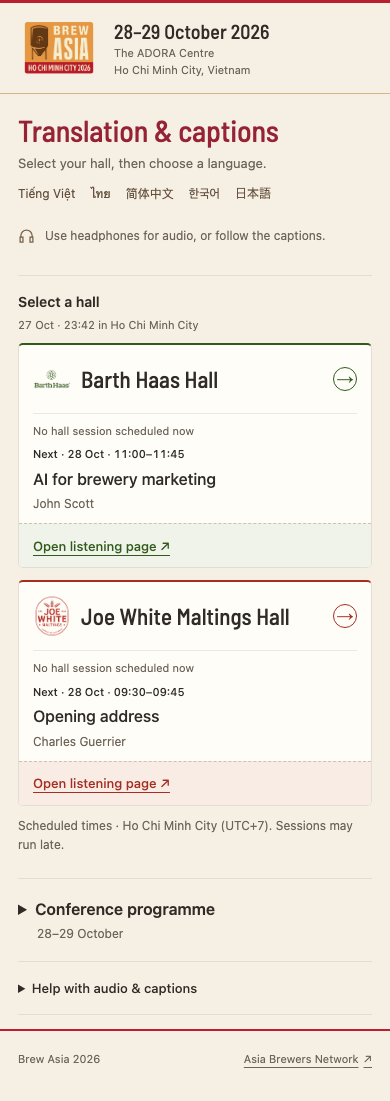
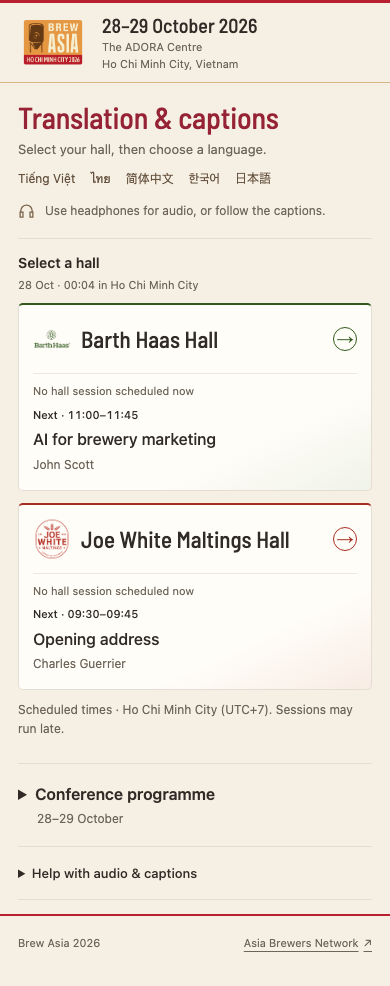
Focus the attendee flow on hall selection and captions

diff --git a/public/app.js b/public/app.js
@@ -2,7 +2,7 @@ import { startProgramme, setProgrammeHall } from './schedule-view.js';
 import { LANGUAGES, normalizeConfig, initialLanguage, embedSource } from './config-core.js';
 
 const $ = id => document.getElementById(id);
-let config, selected, waitTimer;
+let config, selected;
 const query = new URLSearchParams(location.search);
 const preferred = query.get('lang');
 const language = $('language');
@@ -28,19 +28,13 @@ function updateQuickStart() {
 updateQuickStart();
 
 function disconnect(message = '') {
-  clearTimeout(waitTimer);
   // Remove the browsing context before making any new one; never hide old frames.
   $('frame-container').replaceChildren();
   $('leave').hidden = true;
-  $('frame-help').hidden = true;
-  $('join').textContent = 'Start listening ↗';
+  document.body.classList.remove('is-listening');
+  $('audio-hint').hidden = true;
+  $('session-help').open = false;
   $('session-message').textContent = message;
-}
-
-function directLink(anchor, hall) {
-  anchor.href = hall.attendeeUrl;
-  // Same-tab navigation avoids leaving an embedded session playing behind a new tab.
-  anchor.addEventListener('click', () => disconnect('Interpretation closed here.'));
 }
 
 function selectHall(hall) {
@@ -53,17 +47,28 @@ function selectHall(hall) {
     button.querySelector('.indicator').textContent = active ? '✓' : '→';
   }
   $('session').hidden = false;
-  $('selected-hall').textContent = hall.name;
+  document.body.classList.add('has-hall');
+  document.querySelector('.intro').hidden = true;
+  document.querySelector('.audio-note').hidden = true;
+  document.querySelector('.chooser').hidden = true;
+  $('general-help').hidden = true;
+  $('programme').open = false;
+  $('session-programme').open = false;
+  $('session-title').textContent = hall.name;
   setProgrammeHall(hall.id);
   const canEmbed = config.mode === 'embed' && !!hall.embedUrl;
   $('embed-controls').hidden = !canEmbed;
   $('session-fallback').hidden = !hall.attendeeUrl;
   $('session-fallback').href = hall.attendeeUrl || '#';
-  $('session-fallback').setAttribute('aria-label', `Open listening page for ${hall.name}`);
+  $('session-fallback').setAttribute('aria-label', `Try the direct connection for ${hall.name}`);
+  $('direct-start').href = hall.attendeeUrl || '#';
+  $('direct-start').hidden = canEmbed || !hall.attendeeUrl;
+  $('reload').hidden = !canEmbed;
+  $('session-help').hidden = !hall.attendeeUrl;
   $('session-message').textContent = !hall.attendeeUrl
     ? 'This hall’s link is not available yet. Use the original interpretation QR code or ask the event team.'
-    : canEmbed ? 'Ready when you are. Tap Start listening, then enable audio.'
-      : 'Open the listening page to choose your language and listen.';
+    : canEmbed ? ''
+      : 'Choose your language and enable audio on the next page.';
 }
 
 function join() {
@@ -76,20 +81,18 @@ function join() {
   // Delegates playback permission, but does not start playback or bypass user gestures.
   frame.allow = 'autoplay';
   frame.src = embedSource(selected, language.value);
-  $('session-message').textContent = 'Opening your listening panel. Tap its audio control to listen.';
-  $('frame-help').hidden = false;
+  document.body.classList.add('is-listening');
+  $('audio-hint').hidden = false;
   $('leave').hidden = false;
-  $('join').textContent = 'Reload listening panel ↻';
-  // Cross-origin load/error events cannot establish session health. Keep fallback visible.
-  waitTimer = setTimeout(() => {
-    $('session-message').textContent = 'If captions or audio have not appeared, try Open listening page below, or ask the event team for help.';
-  }, 12000);
+  // Cross-origin content cannot report caption/audio health to the portal.
+  // Do not display a timeout warning while a working session may be playing.
   frame.addEventListener('error', () => {
-    clearTimeout(waitTimer);
-    $('session-message').textContent = 'The panel could not open. Try the listening page link below.';
+    $('session-message').textContent = 'The captions panel could not open. Try the direct connection in Help.';
+    $('session-help').open = true;
   });
   $('frame-container').append(frame);
-  frame.scrollIntoView({ block: 'nearest', behavior: 'auto' });
+  $('session-title').focus({ preventScroll: true });
+  window.scrollTo({ top: 0, behavior: 'instant' });
 }
 
 function updateNetwork() {
@@ -100,17 +103,32 @@ function updateNetwork() {
 }
 
 $('join').addEventListener('click', join);
-$('leave').addEventListener('click', () => disconnect('You have left interpretation. Tap Start listening to return.'));
+$('reload').addEventListener('click', join);
+$('leave').addEventListener('click', () => {
+  disconnect();
+  $('join').focus();
+});
 language.addEventListener('change', () => {
-  disconnect('Language changed. Tap Start listening again, then enable audio.');
+  disconnect();
   updateQuickStart();
 });
 $('change-hall').addEventListener('click', () => {
-  disconnect('Choose your next hall above.');
+  disconnect();
+  selected = undefined;
+  $('session').hidden = true;
+  document.body.classList.remove('has-hall');
+  for (const selector of ['.intro', '.audio-note', '.chooser', '#general-help']) document.querySelector(selector).hidden = false;
+  document.querySelectorAll('.hall-choice').forEach(button => {
+    button.setAttribute('aria-pressed', 'false');
+    button.closest('.hall-card').classList.remove('selected');
+    button.querySelector('.indicator').textContent = '→';
+  });
   $('hall-heading').scrollIntoView({ block: 'start' });
   $('hall-heading').focus({ preventScroll: true });
 });
-$('session-fallback').addEventListener('click', () => disconnect('Interpretation closed here.'));
+for (const id of ['session-fallback', 'direct-start']) {
+  $(id).addEventListener('click', () => disconnect());
+}
 window.addEventListener('offline', updateNetwork);
 window.addEventListener('online', updateNetwork);
 window.addEventListener('pagehide', () => disconnect());
@@ -158,14 +176,7 @@ try {
     programme.dataset.scheduleHall = hall.id;
     programme.textContent = 'Checking the programme…';
     article.append(programme);
-    if (hall.attendeeUrl) {
-      const anchor = document.createElement('a');
-      anchor.className = 'fallback';
-      anchor.textContent = 'Open listening page ↗';
-      anchor.setAttribute('aria-label', `Open listening page for ${hall.name}`);
-      directLink(anchor, hall);
-      article.append(anchor);
-    } else {
+    if (!hall.attendeeUrl) {
       const text = document.createElement('p');
       text.className = 'unavailable';
       text.textContent = 'Link awaiting event team';
@@ -176,7 +187,7 @@ try {
   startProgramme(config.halls, hall => {
     selectHall(hall);
     $('session').scrollIntoView({ block: 'start' });
-    ($('embed-controls').hidden ? $('session-fallback') : $('join')).focus({ preventScroll: true });
+    ($('embed-controls').hidden ? $('direct-start') : $('join')).focus({ preventScroll: true });
   });
   const requested = config.halls.find(hall => hall.id === query.get('hall'));
   if (requested) selectHall(requested); // QR deep links select only; never auto-join.

diff --git a/public/index.html b/public/index.html
@@ -44,20 +44,28 @@
     <p id="programme-disclaimer" class="small">Scheduled times · Ho Chi Minh City (UTC+7). Sessions may run late.</p>
     </section>
     <section id="session" class="session" aria-labelledby="session-title" hidden>
-      <div class="section-heading"><h2 id="session-title" tabindex="-1">Your interpretation</h2><button id="change-hall" class="text-button" type="button">Change hall</button></div>
-      <p id="selected-hall" class="selected-hall"></p>
-      <div id="selected-programme" class="selected-programme" aria-live="polite"></div>
+      <div class="session-screen">
+      <div class="section-heading"><h1 id="session-title" tabindex="-1"></h1><button id="change-hall" class="text-button" type="button">Change hall</button></div>
       <div id="embed-controls">
-        <label for="language">Start in your language</label>
-        <div class="join-controls"><select id="language" aria-describedby="language-help"></select><button id="join" class="primary" type="button">Start listening <span aria-hidden="true">↗</span></button></div>
-        <p id="language-help" class="small">Changing this selection disconnects the current view. Tap Start listening again, then enable audio.</p>
+        <label for="language">Choose your language</label>
+        <div class="join-controls"><select id="language"></select><button id="join" class="primary" type="button">Start listening</button></div>
         <p id="native-help" class="native-help"></p>
       </div>
-      <div class="session-bar"><p id="session-message" role="status" aria-live="polite"></p><button id="leave" class="text-button" type="button" hidden>Leave interpretation</button></div>
+      <p id="session-message" class="session-message" role="status" aria-live="polite"></p>
+      <p id="audio-hint" class="small" hidden>Use headphones. Tap the audio control below to listen.</p>
       <div id="frame-container"></div>
-      <p id="frame-help" class="small" hidden>Blank panel or no sound? Try “Open listening page” below.</p>
-      <a id="session-fallback" class="fallback prominent" href="#">Open listening page <span aria-hidden="true">↗</span></a>
-      <p class="small">Opens in this tab. Choose your language and enable audio there. Use your browser’s Back button to return.</p>
+      </div>
+      <a id="direct-start" class="primary direct-start" href="#" hidden>Continue to interpretation <span aria-hidden="true">↗</span></a>
+      <details id="session-help" class="help session-help">
+        <summary>Help with audio &amp; captions</summary>
+        <div>
+          <p>Connect headphones, check your media volume and tap the audio control inside the captions panel. Choose a different language in that panel’s menu.</p>
+          <p>If the panel is blank, check your connection, then try reloading it. You may need to enable audio again after locking your phone.</p>
+          <div class="recovery-actions"><button id="reload" class="text-button" type="button">Reload captions</button><button id="leave" class="text-button" type="button" hidden>Stop listening</button><a id="session-fallback" class="fallback" href="#">Try the direct connection ↗</a></div>
+          <p class="small">The direct connection opens in this tab. If it still does not work, ask the event team or use the original hall QR code.</p>
+        </div>
+      </details>
+      <details id="session-programme" class="session-programme"><summary>In this hall · scheduled programme</summary><div id="selected-programme" aria-live="polite"></div></details>
     </section>
     <details id="programme" class="programme">
       <summary><span>Conference programme</span><span class="small">28–29 October</span></summary>
@@ -69,7 +77,7 @@
         <a class="source-link" href="https://www.brew-asia.com/conference" target="_blank" rel="noopener noreferrer">Official conference programme <span aria-hidden="true">↗</span></a>
       </div>
     </details>
-    <details class="help"><summary>Help with audio &amp; captions</summary><div><p><strong>No sound?</strong> Connect headphones, check your phone’s media volume and tap the audio control in the listening panel. Returning from a locked screen may require another tap.</p><p><strong>Blank or disconnected?</strong> Check your internet connection. Try “Open listening page” for your hall, or use the original interpretation QR code.</p><p><strong>Changing rooms?</strong> Select the other hall here. Close any separate listening tabs that are still playing.</p><p>If you still need help, ask the event team. Captions and audio depend on the hall’s interpretation feed and your internet connection.</p></div></details>
+    <details id="general-help" class="help"><summary>Help with audio &amp; captions</summary><div><p><strong>No sound?</strong> Connect headphones, check your phone’s media volume and tap the audio control in the listening panel. Returning from a locked screen may require another tap.</p><p><strong>Blank or disconnected?</strong> Check your internet connection. Select your hall and open Help for a direct connection, or use the original interpretation QR code.</p><p><strong>Changing rooms?</strong> Select the other hall here. Close any separate listening tabs that are still playing.</p><p>If you still need help, ask the event team. Captions and audio depend on the hall’s interpretation feed and your internet connection.</p></div></details>
   </main>
   <footer><span>Brew Asia 2026</span><a href="https://asiabrewersnetwork.com/" target="_blank" rel="noopener noreferrer">Asia Brewers Network <span aria-hidden="true">↗</span></a></footer>
 </body>

diff --git a/public/styles.css b/public/styles.css
@@ -161,3 +161,52 @@ footer a { display: inline-flex; align-items: center; gap: 5px; min-height: 44px
   .primary, .prominent { border: 2px solid ButtonText; }
   .event-logo, .hall-logo { mix-blend-mode: normal; }
 }
+
+/* Focused hall view: keep captions and their own controls together. */
+.hall-card { background: linear-gradient(155deg, #fffdf8 70%, var(--tint)); }
+.hall-programme { padding-bottom: 16px; }
+.intro .language-line { margin-top: 10px; }
+.audio-note { margin-top: 6px; }
+.chooser { margin-top: 10px; padding-top: 14px; }
+.has-hall .masthead { padding-top: 10px; padding-bottom: 10px; gap: 12px; }
+.has-hall .event-logo { width: 44px; }
+.has-hall .event-location { font-size: 10px; }
+.has-hall .event-location strong { font-size: 16px; }
+.has-hall .event-location span:last-child, .has-hall .brew-motif { display: none; }
+.has-hall main { padding-top: 12px; }
+.session { margin-top: 0; padding-top: 0; border-top: 0; }
+.session .section-heading { align-items: center; margin-bottom: 12px; }
+#session-title { font: 500 26px/1.15 var(--display); color: var(--ink); }
+#change-hall { font-size: 12px; padding: 8px 0 8px 8px; }
+#embed-controls { padding-top: 8px; }
+#native-help { font-size: 13px; line-height: 1.5; margin-top: 12px; }
+.session-message { font-size: 13px; line-height: 1.5; }
+.session-message:not(:empty) { margin: 12px 0; }
+#session-message:empty { display: none; }
+#audio-hint { margin: 0 0 10px; font-size: 12px; }
+.is-listening #embed-controls { display: none; }
+.wordly-frame { margin-top: 0; height: calc(100svh - 205px); min-height: 280px; max-height: 800px; border-radius: 5px; }
+.session-help { margin-top: 16px; border-top: 1px solid var(--line); }
+.recovery-actions { display: flex; flex-wrap: wrap; align-items: center; gap: 8px 16px; padding: 8px 0 !important; }
+.recovery-actions .text-button, .recovery-actions .fallback { font-size: 13px; padding: 8px 0; min-height: 44px; }
+.direct-start { text-decoration: none; margin: 16px 0; }
+.session-programme { border-bottom: 1px solid var(--line); font-size: 13px; }
+.session-programme summary { cursor: pointer; padding: 16px 0; min-height: 48px; }
+#selected-programme { padding-bottom: 16px; }
+.has-hall .programme { margin-top: 0; border-top: 0; }
+@media (max-width: 600px) {
+  .masthead { padding: 10px 18px; }
+  .event-logo { width: 70px; }
+  main { padding-top: 17px; }
+  .audio-note { margin-top: 4px; padding-bottom: 8px; }
+  .chooser { margin-top: 10px; }
+  .has-hall main { padding: 10px 14px 14px; }
+  .has-hall .masthead { padding: 8px 14px; }
+  #session-title { font-size: 24px; }
+  .session .section-heading { gap: 10px; flex-wrap: nowrap; }
+  .wordly-frame { height: calc(100svh - 190px); }
+}
+
+.is-listening .session-screen { height: calc(100svh - 84px); min-height: 420px; max-height: 1000px; display: flex; flex-direction: column; }
+.is-listening #frame-container { flex: 1; min-height: 0; }
+.is-listening .wordly-frame { height: 100%; min-height: 0; max-height: none; }

diff --git a/docs/DEVICE-ACCEPTANCE.md b/docs/DEVICE-ACCEPTANCE.md
@@ -6,16 +6,16 @@ Programme checks: compare the correct hall/session to the final organizer timeta
 
 Minimum coverage: one real iPhone with Safari and one real Android phone with Chrome, each exercised in both halls. Ideally have four phones/operators so both phone families can be checked in both halls concurrently. Record OS/browser versions, network, headphones, time, hall and outcome. Browser emulation is not a substitute.
 
-1. **QR / arrival.** Scan the single portal QR with the system camera. Confirm HTTPS, correct branding, both named halls and visible direct links. No session or sound should start merely on arrival. Check ordinary cellular access independent of production routers. Check an in-app browser if attendees are likely to use one; recommend opening Safari/Chrome if embedded browser playback fails.
+1. **QR / arrival.** Scan the single portal QR with the system camera. Confirm HTTPS, correct branding, both named halls; select a hall and check that Help exposes its direct connection. No session or sound should start merely on arrival. Check ordinary cellular access independent of production routers. Check an in-app browser if attendees are likely to use one; recommend opening Safari/Chrome if embedded browser playback fails.
 2. **Room identity and activation.** Open a test phone before the session starts, then have the operator start the normal feed. Confirm the waiting view becomes usable; document whether Start listening must be tapped again.  Coordinate short distinct spoken identifiers with each hall operator while both existing feeds run. Select the matching hall, then Start listening. Confirm captions and sound contain only that hall’s identifier. Do not infer correctness from the session ID alone.
 3. **Audio gesture.** Connect headphones, select a language, tap Start listening, then tap the audio control inside Wordly. Confirm intelligible sound. Test initial mute/unmute, device volume, a locked screen/unlock, app switch/return and headphones disconnected/reconnected. No surprise speaker playback should occur in the room. Document any additional tap needed.
 4. **All five languages.** Exercise Vietnamese, Thai, Simplified Chinese, Korean and Japanese. Check native-script rendering, captions, available TTS controls and actual spoken output. Check that the five-language menu filtering is respected. Translation quality and TTS quality remain provider-dependent; confirm the event’s practical needs.
-5. **Switch rooms.** While listening to the first hall, select the other hall. Old audio must stop immediately. Start listening in the second hall, enable its audio and confirm the second identifier. Repeat A→B→A quickly at least three times. Test Leave and Reload. The portal must never retain two frames. Close any separate Wordly tabs before judging overlapping sound.
-6. **Language changes.** Change the outer language selector while listening. The current frame should close. Tap Start listening again and enable audio; the selected language should appear. Test Wordly’s internal language control separately. Confirm the attendee can tell when reconnection is required.
-7. **Fallback.** Open each hall’s “Open listening page” link from a playing session. It should navigate in the same tab, with no old iframe audio continuing. Select a language and enable sound directly in Wordly. Use Back; confirm no stale audio automatically resumes. Repeat in `mode: "links"` if embedding is unsuitable.
+5. **Switch rooms.** While listening to the first hall, tap Change hall, then select the other hall. Old audio must stop immediately. Start listening in the second hall, enable its audio and confirm the second identifier. Repeat A→B→A quickly at least three times. Test Help → Stop listening and Reload captions. The portal must never retain two frames. Close any separate Wordly tabs before judging overlapping sound.
+6. **Language changes.** Use the language selector inside the captions panel during listening. The outer setup selector is hidden while the frame exists. Use Help → Stop listening to return to setup, select another language, then Start listening again. Reload captions uses the original setup language; verify this recovery path.
+7. **Fallback.** Open Help → Try the direct connection for each hall from a playing session. It should navigate in the same tab, with no old iframe audio continuing. Select a language and enable sound directly in Wordly. Use Back; confirm no stale audio automatically resumes. Repeat in `mode: "links"` if embedding is unsuitable.
 8. **Connection failure.** Turn off network access on the test phone (not on a production router). Check offline guidance, stopped iframe and disabled Start listening. Reconnect; Start listening must require a new tap. Separately simulate poor connectivity and a silent/unavailable session; the direct fallback must remain accessible. Reload while offline: a browser error is expected because there is no offline cache. Existing printed official QRs are the recovery path once connectivity returns.
 9. **Layout and captions.** Check a narrow phone, portrait/landscape, Safari toolbar expansion, large system text and browser zoom. Read enough captions to scroll history. Buttons and the direct fallback must remain reachable without horizontal clipping. Parent page cannot repair Wordly’s internal layout; use direct fallback if needed.
-10. **Accessibility.** With VoiceOver/TalkBack, locate the hall buttons, their selected state, language label, Start listening, named iframe, Leave and direct fallback. Test focus entry/exit through Wordly’s controls and confirm there is no trap. Keyboard-only desktop check complements this but does not replace phone screen-reader testing. Check contrast and text scaling inside the real Wordly frame.
+10. **Accessibility.** With VoiceOver/TalkBack, locate the hall buttons, their selected state, language label, Start listening, named iframe, Change hall and the recovery controls under Help. Test focus entry/exit through Wordly’s controls and confirm there is no trap. Keyboard-only desktop check complements this but does not replace phone screen-reader testing. Check contrast and text scaling inside the real Wordly frame.
 11. **Isolation / privacy.** Open a fresh tab and confirm it starts without an automatically joined room. Check switching never routes the wrong session. The wrapper does not persist a transcript or selection; provider cookies/storage are outside its control. Public attendee links/passcodes must be intended for the event audience.
 12. **Final distribution.** Scan the printed-size QR from realistic distances/lighting on both camera apps. Confirm it points to the final approved root address, not localhost, a test hostname or a preselected wrong hall. Obtain organizer sign-off before attendee distribution or any change to existing official codes.
 
@@ -33,3 +33,7 @@ Simultaneous-feed test time: __________
 Organizer sign-off and approved distribution scope: __________
 
 Fallback selected if embeds fail: existing official QR / accepted links-only portal (circle one).
+
+## Owner evidence received around midnight, 27–28 October
+
+The owner reported that the portal works and supplied iPhone screenshots showing Japanese captions in the Barth Haas frame. This confirms one real phone caption path on the earlier release. The screenshots do not establish spoken audio, all languages, Joe White, simultaneous halls, browser/OS versions or acceptance of the revised 1.4 layout. Do not mark those rows complete without the corresponding test.

diff --git a/README.md b/README.md
@@ -1,6 +1,6 @@
 # Brew Asia 2026 attendee interpretation portal
 
-Independent, mobile-first static portal for The ADORA, Ho Chi Minh City, 28–29 October 2026. Prepared on 27 October. No backend, authentication, framework, analytics, remotely loaded fonts, service worker, or runtime package dependencies. **Prepared for controlled phone testing. Attendee rollout has not been accepted on real phones in the two halls.**
+Independent, mobile-first static portal for The ADORA, Ho Chi Minh City, 28–29 October 2026. Prepared on 27 October. No backend, authentication, framework, analytics, remotely loaded fonts, service worker, or runtime package dependencies. **Prepared for controlled phone testing. The owner has shown working Japanese captions on an iPhone; full real-phone acceptance in both halls is still pending.**
 
 Live test site: https://skidbladnr.github.io/brew-asia-2026-attendee-portal/
 
@@ -17,7 +17,7 @@ The organizer-supplied pairs are in `public/config.json`:
 
 Hall spelling now follows the official conference programme, checked on 27 October 2026. Internal IDs `a` and `b` are only navigation keys; they do not assert an official Hall A/B signage mapping. Confirm physical signage and whether these interpretation sessions remain valid on both dates. No presenter links or settings are used.
 
-## Event identity and programme (v1.3)
+## Event identity and programme (v1.4)
 
 The design uses the official public Brew Asia 2026 event mark and hall logos, restrained event colors, medium-weight event headings, system body text and compact hall cards. Warm paper tones, subtle hall tints and a desktop brewing illustration retain the event identity. Promotional slogans have been removed; instructions describe what attendees need to do. Asset provenance is in `docs/BRAND-SOURCES.md`. All design assets load from the portal itself.
 
@@ -25,7 +25,7 @@ The hall cards show **Scheduled now** and **Next**, derived from `public/schedul
 
 Schedule state is recomputed every 30 seconds and on return to the page without reloading the listening iframe. Timetable edits require changing `public/schedule.json`, rebuilding and deploying through the approved process. An already-open tab must reload to fetch changed timetable data; do that between sessions because it also stops listening. A failed timetable fetch leaves interpretation controls usable. See `docs/PROGRAMME-SOURCES.md` for the hall mapping and source decisions.
 
-The outer attendee interface omits the service/vendor name. Its fallback says “Open listening page”; underlying official URLs and iframe behavior are unchanged. The provider may still show its own name inside the frame or direct page. Native-language audio-start prompts are included for all five output languages; the rest of the shell and agenda remain English.
+The outer attendee interface omits the service/vendor name. A direct-connection fallback is available inside the selected hall’s Help section. Repeated direct links have been removed from the hall cards at the owner’s request; underlying official URLs and iframe behavior are unchanged. The provider may still show its own name inside the frame or direct page. Native-language audio-start prompts are included for all five output languages; the rest of the shell and agenda remain English.
 
 ## Run and build
 
@@ -69,7 +69,9 @@ Edit `public/config.json`, then rebuild. `config.example.json` is an empty, port
 - Duplicate hall session IDs fail closed. Unknown origins, presenter paths and undocumented iframe parameters are rejected. If Wordly supplies a new URL format, verify its official documentation before adjusting the validator.
 - Direct attendee URLs are preserved. Language/display parameters are applied only to iframe URLs; attendees select their language inside Wordly when using a direct link.
 
-Only one iframe exists at a time. Selecting any hall, changing the outer language selector, leaving, going offline, or navigating away removes the old iframe. Starting/reloading requires a tap. Changing the outer language selector resets the embedded view; it does not remotely manipulate Wordly controls. Audio still requires Wordly’s own user gesture. Separate browser tabs and other devices cannot be controlled by this portal.
+Selecting a hall opens a focused setup view. Starting hides the outer language setup, leaving the hall name, Change hall, a short audio instruction and the captions frame. Use the provider’s internal language control while listening. Programme details and recovery controls sit below the frame. Help contains Reload captions, Stop listening and Try the direct connection. Reload uses the original setup language; an in-frame language change cannot be read by the wrapper.
+
+Only one iframe exists at a time. Change hall, Stop listening, going offline, or navigating away removes the old iframe. Starting/reloading requires a tap. Stop listening returns to setup, where a different starting language can be chosen. Audio still requires Wordly’s own user gesture. Separate browser tabs and other devices cannot be controlled by this portal.
 
 The page stores no selection or transcript in local storage, cookies, or a backend. Wordly operates its own cross-origin session and storage. The portal cannot inspect captions, confirm a broadcast, or guarantee provider-side session isolation. Visible messages describe browser actions, not invented live status.
 
@@ -99,7 +101,8 @@ Optional test deep links on that same root are `?hall=a&lang=vi` and `?hall=b&la
 - `docs/WORDLY.md`: documented integration contract and limitations.
 - `docs/TEST-RESULTS.md`: completed evidence and untested risks.
 - `docs/phone-preview.jpg`: first mobile viewport at 390 × 844 CSS pixels.
-- `docs/desktop-preview.jpg`: desktop design capture.
+- `docs/desktop-preview.jpg`: desktop hall chooser.
+- `docs/listening-preview.png`: active mobile layout with a visibly simulated provider response; not a live-feed capture.
 - `docs/mobile-preview.png`: captured portal landing page on preparation day.
 - `docs/schedule-preview.png`: a **simulated 28 October, 11:10** timetable view for design review; not evidence of a live broadcast.
 

diff --git a/docs/TEST-RESULTS.md b/docs/TEST-RESULTS.md
@@ -23,7 +23,7 @@ An initial run against the machine’s newer installed Chrome passed all asserti
 
 Programme tests cover Vietnam time, exact start/end boundaries, gaps, shared activities, the overnight transition, completed conference state, schedule-fetch failure, date/hall filters and keeping the same iframe during a timetable transition. A native-language instruction appears for each selected output language.
 
-The browser’s online hint cannot detect every outage. Cross-origin iframe failures may not emit useful error events; the direct fallback remains visible regardless. A fresh offline page load cannot work without internet. The portal removes its own iframe on switching but cannot silence a separate browser tab or another device.
+The browser’s online hint cannot detect every outage. Cross-origin iframe failures may not emit useful error events; the selected hall’s Help section keeps the direct fallback available. A fresh offline page load cannot work without internet. The portal removes its own iframe on switching but cannot silence a separate browser tab or another device.
 
 No presenter MacBook, cellular router, production feed, official QR code or Wordly account setting was modified. A new independent GitHub Pages deployment was created with the owner’s authorization. Research used public Wordly documentation, official event/programme/branding pages and GitHub documentation; no private event account was accessed. URLs supplied by the user were validated locally.
 
@@ -46,3 +46,14 @@ Revision 1.3: warmer event styling restored without slogans; unit tests (14) and
 - The final QR PNG and all four QR codes in the rendered A4 PDF decoded to that exact HTTPS address. The PDF was visually reviewed. Software decoding does not prove camera scanning of the printed sheet.
 - An initial local QR decode failed because the sandbox could not initialize the native image decoder; the permitted local decoder run succeeded. PDF rendering succeeded with a local font cache.
 - The site source is public. A scan found no known credential signatures or presenter passcodes in the release; event programme and attendee session URLs are intentionally public.
+
+
+## Revision 1.4 — focused listening view, 28 October
+
+The owner reported working interpretation and supplied iPhone screenshots showing Japanese captions in Barth Haas. This is real-device evidence for that caption path on the earlier release; audio, Joe White, simultaneous halls and the revised layout remain to be accepted.
+
+The hall chooser no longer repeats direct links. Selection replaces the chooser with language setup. Starting hides setup and places the frame immediately beneath the hall name and audio hint. Change hall tears down the frame and restores the chooser. Reload, stop and direct recovery are under Help; the selected programme is collapsed below the frame. The unconditional 12-second warning has been removed because elapsed time cannot indicate provider failure.
+
+Validation: 14 unit tests and 18 browser tests, including focused-view layout, frame teardown, fallback recovery, no unsolicited timeout warning and frame bounds for both hall names at 320/390 widths. The shell accessibility and wider layout tests remain included. Provider responses in browser tests are simulated. A screenshot of the active test layout is labelled as a simulated provider response.
+
+Initial local test attempts required loopback permission and the already downloaded matching Chromium path; an outdated test locator for hidden hall controls was corrected before the final suite. These were tooling/test issues, not a live-provider test.

diff --git a/docs/GO-NO-GO.md b/docs/GO-NO-GO.md
@@ -4,8 +4,9 @@
 
 - [x] Both official attendee/embed pairs supplied and configured; session IDs differ and pairs match.
 - [x] Documented Wordly parameters verified; static build and automated portal checks pass.
-- [x] Direct links remain prominent; links-only mode is available.
+- [x] Each selected hall retains a direct connection under Help; links-only mode provides a primary direct action.
 - [x] Display names reconciled to the official programme: Barth Haas Hall and Joe White Maltings Hall.
+- [x] Owner supplied iPhone evidence of working Japanese captions in Barth Haas on the preceding release.
 - [ ] Match both names to physical signage; do not assume an A/B mapping.
 - [ ] Organizer checks the imported timetable against last-minute changes and names a person to communicate delays or corrections.
 - [ ] Confirm both supplied sessions cover October 28 **and** 29, or provide the day/session change schedule and replacement URL pairs.
